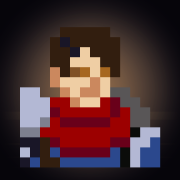
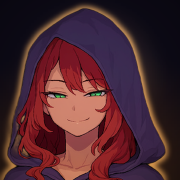
feat: 앱 아이콘 교체 — ? 칸 거래상 얼굴 (옛 전사 hero-knight 대신)
- makeicon.mjs: 도트에서 그리던 것을 **구운 마스터 한 장 축소**로 바꿈(의존성 0 유지)
- 마스터 docs/redesign/tools/icon/master-1024.png + 굽는 도구 build.py(pillow · rembg)
- 후드가 어두워 묻히므로 머리 뒤 빛무리 · 실루엣 테두리 빛으로 48px에서도 읽히게
- apple-touch-icon.png는 알파 없이(iOS)
- 문서: CLAUDE.md(§7 에셋 · §9 배포) · PROGRESS.md 기록
- hero-knight 시트는 이제 쓰는 곳이 없다(삭제는 사용자 결정)

Claude-Session: https://claude.ai/code/session_01PwYDZAYG6GSF9ezdKwwitH

diff --git a/docs/redesign/tools/icon/build.py b/docs/redesign/tools/icon/build.py
@@ -1,0 +1,73 @@
+"""앱 아이콘 마스터(1024×1024) 굽기 — **? 칸 거래상 얼굴**.
+
+    python3 docs/redesign/tools/icon/build.py        # master-1024.png 를 다시 굽는다
+
+왜 파이썬인가: 일러스트에서 인물만 오려 내는 데 `rembg`(isnet-anime)를 쓴다.
+구운 마스터는 **이 폴더에 같이 커밋**하므로, 아이콘을 다시 뽑을 때는
+`npm run icon`(의존성 0)만 돌리면 된다 — 파이썬은 구도를 바꿀 때만 필요하다.
+필요한 것: `pip install pillow rembg numpy`
+
+구도 메모
+- 원본은 가로 그림(1216×832)이라 그대로 쓰면 얼굴이 작다 → 후드째 정사각으로 자른다.
+- 후드가 짙은 보라라 어두운 배경에 묻힌다. 그래서 **머리 뒤 빛무리**와 **실루엣
+  바깥 테두리 빛**(등불 색)으로 띄운다 — 아이콘은 48px까지 줄어들고, 그 크기에서
+  형태를 읽히게 하는 건 이 대비가 전부다.
+- 배경은 위가 보랏빛 어둠, 아래가 등불의 따뜻한 빛 — 거래상이 든 등불과 이어진다.
+"""
+import os
+import numpy as np
+from PIL import Image, ImageFilter
+
+ROOT = os.path.abspath(os.path.join(os.path.dirname(__file__), '..', '..', '..', '..'))
+SRC = os.path.join(ROOT, 'docs/redesign/2dImg/거래상.png')
+OUT = os.path.join(os.path.dirname(__file__), 'master-1024.png')
+
+BOX = (230, 20, 550, 340)   # 원본에서 잘라 낼 정사각 — 후드 꼭대기부터 망토 여밈까지
+N = 1024                    # 마스터 한 변
+HALO, RIM, BOOST, VIG = 0.9, 1.1, 1.16, 0.30
+
+
+def lantern_bg(n):
+    """위는 보랏빛 어둠, 아래는 등불의 따뜻한 빛."""
+    yy, xx = np.mgrid[0:n, 0:n]
+    top, warm = np.array([14, 11, 24], np.float32), np.array([92, 52, 18], np.float32)
+    g = np.clip(1 - np.hypot(xx - (n - 1) / 2, (yy - n * 0.98) / 0.8) / (n * 0.95), 0, 1) ** 1.3
+    out = top * (1 - g[..., None]) + warm * g[..., None]
+    r = np.hypot(xx - (n - 1) / 2, yy - n * 0.42) / (n * 0.55)
+    return out + np.clip(1 - r, 0, 1)[..., None] ** 2 * 26
+
+
+def main():
+    from rembg import remove, new_session
+    src = Image.open(SRC).convert('RGB')
+    mask = remove(src, session=new_session('isnet-anime'), only_mask=True)
+
+    w = BOX[2] - BOX[0]
+    sub = np.array(src.crop(BOX)).astype(np.float32)
+    mc = mask.crop(BOX)
+    al = (np.array(mc).astype(np.float32) / 255.0)[..., None]
+
+    bg = np.array(Image.fromarray(np.clip(lantern_bg(64), 0, 255).astype(np.uint8))
+                  .resize((w, w), Image.BICUBIC)).astype(np.float32)
+    yy, xx = np.mgrid[0:w, 0:w]
+    halo = np.clip(1 - np.hypot(xx - w * 0.5, yy - w * 0.42) / (w * 0.46), 0, 1) ** 1.8
+    bg += (halo * HALO)[..., None] * np.array([150, 112, 56], np.float32)
+    grown = mc.filter(ImageFilter.MaxFilter(9)).filter(ImageFilter.GaussianBlur(w / 70))
+    ring = np.clip(np.array(grown).astype(np.float32) / 255.0 - al[..., 0], 0, 1)
+    bg += (ring * RIM)[..., None] * np.array([196, 142, 70], np.float32)
+
+    sub = np.clip((sub - 16) * BOOST + 16, 0, 255)
+    im = Image.fromarray(np.clip(sub * al + bg * (1 - al), 0, 255).astype(np.uint8))
+    im = im.resize((N, N), Image.LANCZOS)
+
+    a = np.array(im).astype(np.float32)
+    yy, xx = np.mgrid[0:N, 0:N]
+    d = np.hypot(xx - (N - 1) / 2, yy - (N - 1) / 2) / (N * 0.70)
+    a *= (1 - np.clip(d, 0, 1) ** 2 * VIG)[..., None]
+    # png.mjs 디코더가 8bit RGBA · 팔레트만 읽는다 → RGBA로 저장한다
+    Image.fromarray(np.clip(a, 0, 255).astype(np.uint8)).convert('RGBA').save(OUT, optimize=True)
+    print('구웠다: ' + OUT)
+
+
+if __name__ == '__main__':
+    main()

diff --git a/CLAUDE.md b/CLAUDE.md
@@ -200,7 +200,7 @@ npm run typecheck && npm run check && npm run sim:run 900 -- --sweep --seed=1234
 - 게임이 쓰는 그림은 `public/`만. **원본·안 쓰는 그림을 `public/`에 두지 않는다**(배포된다).
 - 사용자가 준 원본 일러스트는 **`docs/redesign/2dImg/`**(`cairn`·`sable`·`magision`·`inn.png`·`대장간`·`대장장이`·`온천`·`거래상.png` — 버전 관리 · 배포 안 됨. **마법사는 `magision.png`가 지금 그림**이고 `dirge.png`는 옛 그림이다 — 굽힌 결과 이름은 그대로 `bg-dirge.png`). 배경은 `docs/redesign/tools/hero-bg`·`inn-bg`·`event-bg/build.py`로 굽는다.
 - 서드파티 스프라이트 팩 원본은 `assets-raw/`(**gitignore** — EULA상 커밋 금지), `npm run sprites`로 `public/sprites/`에 굽는다. 리디자인 시트는 `public/redesign/sprites/`(`docs/redesign/tools/`가 생성).
-- `public/sprites/`에 남은 옛 시트는 아직 리디자인 그림이 없는 몬스터용(철퇴병 · 감시안 · 버서커 · 뱀파이어 · 가디언 · 석궁병 · 주술사 · 기사 · 암살자 — `medieval-warrior`·`flying-eye`·`martial-hero`·`mimic`·`angel`·`church-wizard`)과 `rat`(미사용, 원본이 없어 보존) · `hero-knight`(웹 아이콘 원본 — `npm run icon`)뿐이다. 옛 배경 `public/bg`·바위 `public/terrain`은 2026-11-09에 지웠다(리디자인으로 대체).
+- `public/sprites/`에 남은 옛 시트는 아직 리디자인 그림이 없는 몬스터용(철퇴병 · 감시안 · 버서커 · 뱀파이어 · 가디언 · 석궁병 · 주술사 · 기사 · 암살자 — `medieval-warrior`·`flying-eye`·`martial-hero`·`mimic`·`angel`·`church-wizard`)과 `rat`(미사용, 원본이 없어 보존) · `hero-knight`뿐이다. ⚠ `hero-knight`는 2026-11-12에 웹 아이콘이 거래상 그림으로 바뀌면서 **쓰는 곳이 없어졌다**(지울지는 사용자 결정). 옛 배경 `public/bg`·바위 `public/terrain`은 2026-11-09에 지웠다(리디자인으로 대체).
 - 시트 `facesRight`는 **몸이 향한 쪽**(공격 프레임의 타격 방향)으로 판정. 모든 시트에 명시.
 
 ## 8. 온라인 멀티 · 로그인 — main에 없음
@@ -211,7 +211,7 @@ npm run typecheck && npm run check && npm run sim:run 900 -- --sweep --seed=1234
 
 - 웹: Firebase Hosting `npm run build && npx firebase deploy --only hosting`. 빌드에 필요한 환경 변수는 없다(`.env` 불필요).
 - **네이티브 앱(Capacitor · `ios/` · `android/`)은 main에 없다**(2026-11-10 사용자 결정 — 앱 출시 중단). 브랜치 `archive/native-app`에 보존했고, 앱 규칙(cap sync · iPhone 전용 · 게스트 버튼 · 심사 주의점)은 그 브랜치의 CLAUDE.md §9에 있다.
-- 웹 아이콘(PWA) `npm run icon`(옛 전사 `hero-knight` 얼굴 클로즈업) — `public/icon-*.png` · `apple-touch-icon.png`.
+- 웹 아이콘(PWA) `npm run icon` — **? 칸 거래상 얼굴**(2026-11-12 사용자 선택). 구운 마스터 한 장(`docs/redesign/tools/icon/master-1024.png`)을 줄여 `public/icon-*.png` · `apple-touch-icon.png`를 만든다(의존성 0). 구도·빛을 바꾸려면 `docs/redesign/tools/icon/build.py`(pillow · rembg)로 마스터를 다시 굽는다. 전엔 `hero-knight` 도트에서 얼굴을 떼어 배경까지 코드로 그렸는데, 그 전사는 리디자인 뒤 **게임에 없는 캐릭터**였다.
 
 ## 10. 기술 스택 · 명령어 · 코드 지도
 

diff --git a/docs/redesign/PROGRESS.md b/docs/redesign/PROGRESS.md
@@ -144,6 +144,7 @@
 
 ## 3. 기록
 
+- 2026-11-12 — **앱 아이콘 교체**(사용자 선택): 옛 전사(`hero-knight`) 얼굴 → **? 칸 거래상** 일러스트(`2dImg/거래상.png`). 시안 넷(전투판 격자 · 영웅 얼굴 · 영웅 얼굴 어두운 배경 · 영웅 도트)을 48px까지 줄여 비교한 뒤 "얼굴 + 어두운 배경"을 거래상으로 다시 구웠다. 후드가 짙어 어두운 배경에 묻히므로 **머리 뒤 빛무리 + 실루엣 테두리 빛**(등불 색)으로 띄웠다 — 48px에서 형태를 읽히게 하는 건 이 대비다. `scripts/makeicon.mjs`는 이제 구운 마스터 한 장(`docs/redesign/tools/icon/master-1024.png`)을 줄이기만 한다(의존성 0, `--preview` 그대로). 구도를 바꾸려면 `tools/icon/build.py`(pillow · rembg). `apple-touch-icon.png`는 알파를 빼고 낸다(iOS). ⚠ 이로써 `public/sprites/hero-knight/`는 쓰는 곳이 없다.
 - 2026-11-12 — 대장간 시안 `Blacksmith.dc.html`(저장소 사본)을 새 규칙으로 고침: 선택지 셋(강화 맡기기 80G → `Upgrade.dc.html` · 직접 강화 무료 → `Upgrade.dc.html` · 나가기 → `RunMap.dc.html`), 쉬어 가기 · 회복 연출 삭제, 대사 갱신, "골드 부족 보기(시안)" 버튼. 룰 변경 없음.
 - 2026-11-12 — 강화 시안 `Upgrade.dc.html`(저장소 사본)을 새 규칙으로 고침: 판 둘("시안용 판" 버튼 — 맡기기 80G / 직접 무료) · 10칸 원판(칸 폭 = 확률) · 마이너스면 뺄 칸 고르기(1칸 남음) · 수치 바닥 0 · 카드당 3번 · 별 ★(이름 뒤 +N 없음). 캔버스 원본은 다른 조직 소유라 못 고침. 룰 변경 없음.
 - 2026-11-12 — 룰렛 원판 60칸 → **10칸**(사용자 — 숫자가 겹쳤다): 숫자마다 2칸 · 칸 폭 = 확률(그림 넓이 = 확률), 숫자 글씨 11 → 17px. "피해이(가)" → 받침 조사(피해가 · 방어량이) · 마이너스 판은 플러스에도 + 기호. 룰 · 확률 변경 없음.
